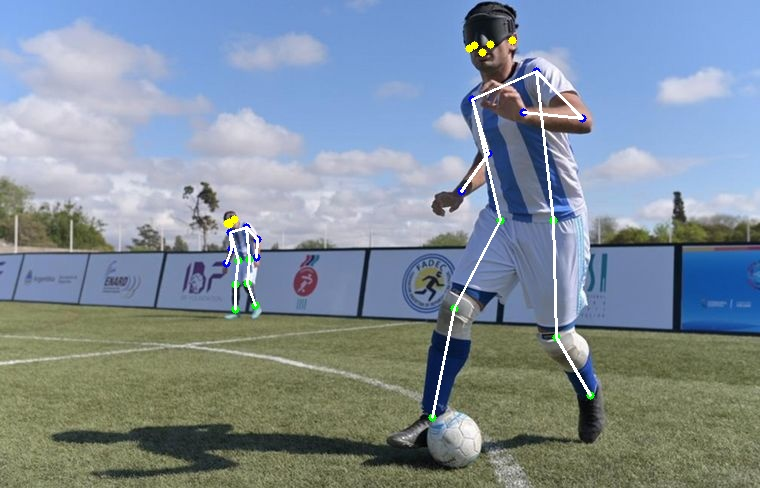
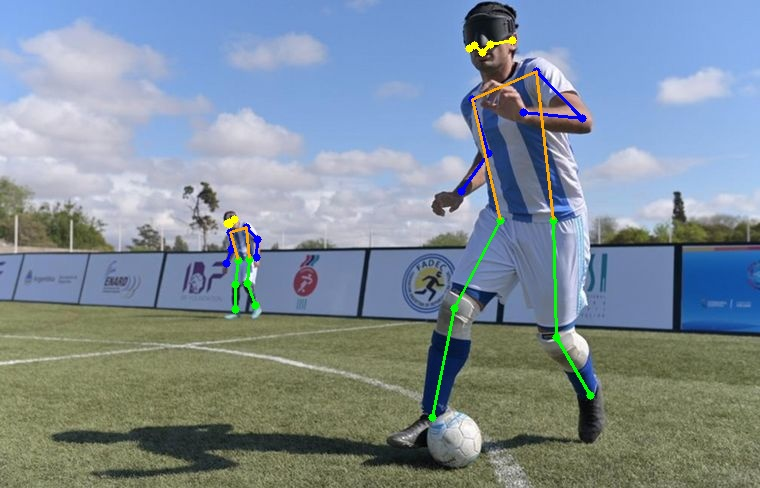
skeleton with different colors

diff --git a/src/draw_pose.py b/src/draw_pose.py
@@ -1,42 +1,66 @@
 import cv2
 
 
-HEAD = (0, 1, 2, 3, 4)
-ARMS = (5, 6, 7, 8, 9, 10)
-LEGS = (11, 12, 13, 14, 15, 16)
+# -------------------------------
+# BODY PART GROUPS (keypoints)
+# -------------------------------
 
-SKELETON = [
-    (5, 7), (7, 9),
-    (6, 8), (8, 10),
-    (5, 6),
-    (5, 11), (6, 12),
-    (11, 13), (13, 15),
-    (12, 14), (14, 16),
-]
+HEAD = [0, 1, 2, 3, 4]
+ARMS = [5, 6, 7, 8, 9, 10]
+LEGS = [11, 12, 13, 14, 15, 16]
+TORSO = [5, 6, 11, 12]
 
-COLORS = {
-    "head": (0, 255, 255),
-    "arms": (255, 0, 0),
-    "legs": (0, 255, 0),
+
+# -------------------------------
+# SKELETON CONNECTIONS
+# -------------------------------
+
+SKELETON_CONNECTIONS = {
+
+    "head": [
+        (0, 1), (0, 2), (1, 3), (2, 4)
+    ],
+
+    "arms": [
+        (5, 7), (7, 9),
+        (6, 8), (8, 10)
+    ],
+
+    "torso": [
+        (5, 6),
+        (5, 11),
+        (6, 12)
+    ],
+
+    "legs": [
+        (11, 13),
+        (13, 15),
+        (12, 14),
+        (14, 16)
+    ]
 }
 
 
-def get_color(index):
+# -------------------------------
+# COLORS (BGR for OpenCV)
+# -------------------------------
 
-    if index in HEAD:
-        return COLORS["head"]
+COLORS = {
 
-    if index in ARMS:
-        return COLORS["arms"]
+    "head": (0, 255, 255),     # yellow
+    "arms": (255, 0, 0),       # blue
+    "torso": (0, 165, 255),    # orange
+    "legs": (0, 255, 0),       # green
+}
 
-    if index in LEGS:
-        return COLORS["legs"]
 
-    return (255, 255, 255)
-
+# -------------------------------
+# DRAW FUNCTION
+# -------------------------------
 
 def draw_pose(image, keypoints, scores, threshold=0.3):
 
+    # Draw keypoints
     for i, (kp, score) in enumerate(zip(keypoints, scores)):
 
         if score < threshold:
@@ -44,18 +68,34 @@ def draw_pose(image, keypoints, scores, threshold=0.3):
 
         x, y = int(kp[0]), int(kp[1])
 
-        color = get_color(i)
+        # Determine color by body group
+        if i in HEAD:
+            color = COLORS["head"]
+
+        elif i in ARMS:
+            color = COLORS["arms"]
+
+        elif i in LEGS:
+            color = COLORS["legs"]
+
+        else:
+            color = COLORS["torso"]
 
         cv2.circle(image, (x, y), 4, color, -1)
 
-    for a, b in SKELETON:
+    # Draw skeleton connections
+    for group, connections in SKELETON_CONNECTIONS.items():
 
-        if scores[a] < threshold or scores[b] < threshold:
-            continue
+        color = COLORS[group]
 
-        x1, y1 = int(keypoints[a][0]), int(keypoints[a][1])
-        x2, y2 = int(keypoints[b][0]), int(keypoints[b][1])
+        for a, b in connections:
 
-        cv2.line(image, (x1, y1), (x2, y2), (255, 255, 255), 2)
+            if scores[a] < threshold or scores[b] < threshold:
+                continue
+
+            x1, y1 = int(keypoints[a][0]), int(keypoints[a][1])
+            x2, y2 = int(keypoints[b][0]), int(keypoints[b][1])
+
+            cv2.line(image, (x1, y1), (x2, y2), color, 2)
 
     return image
